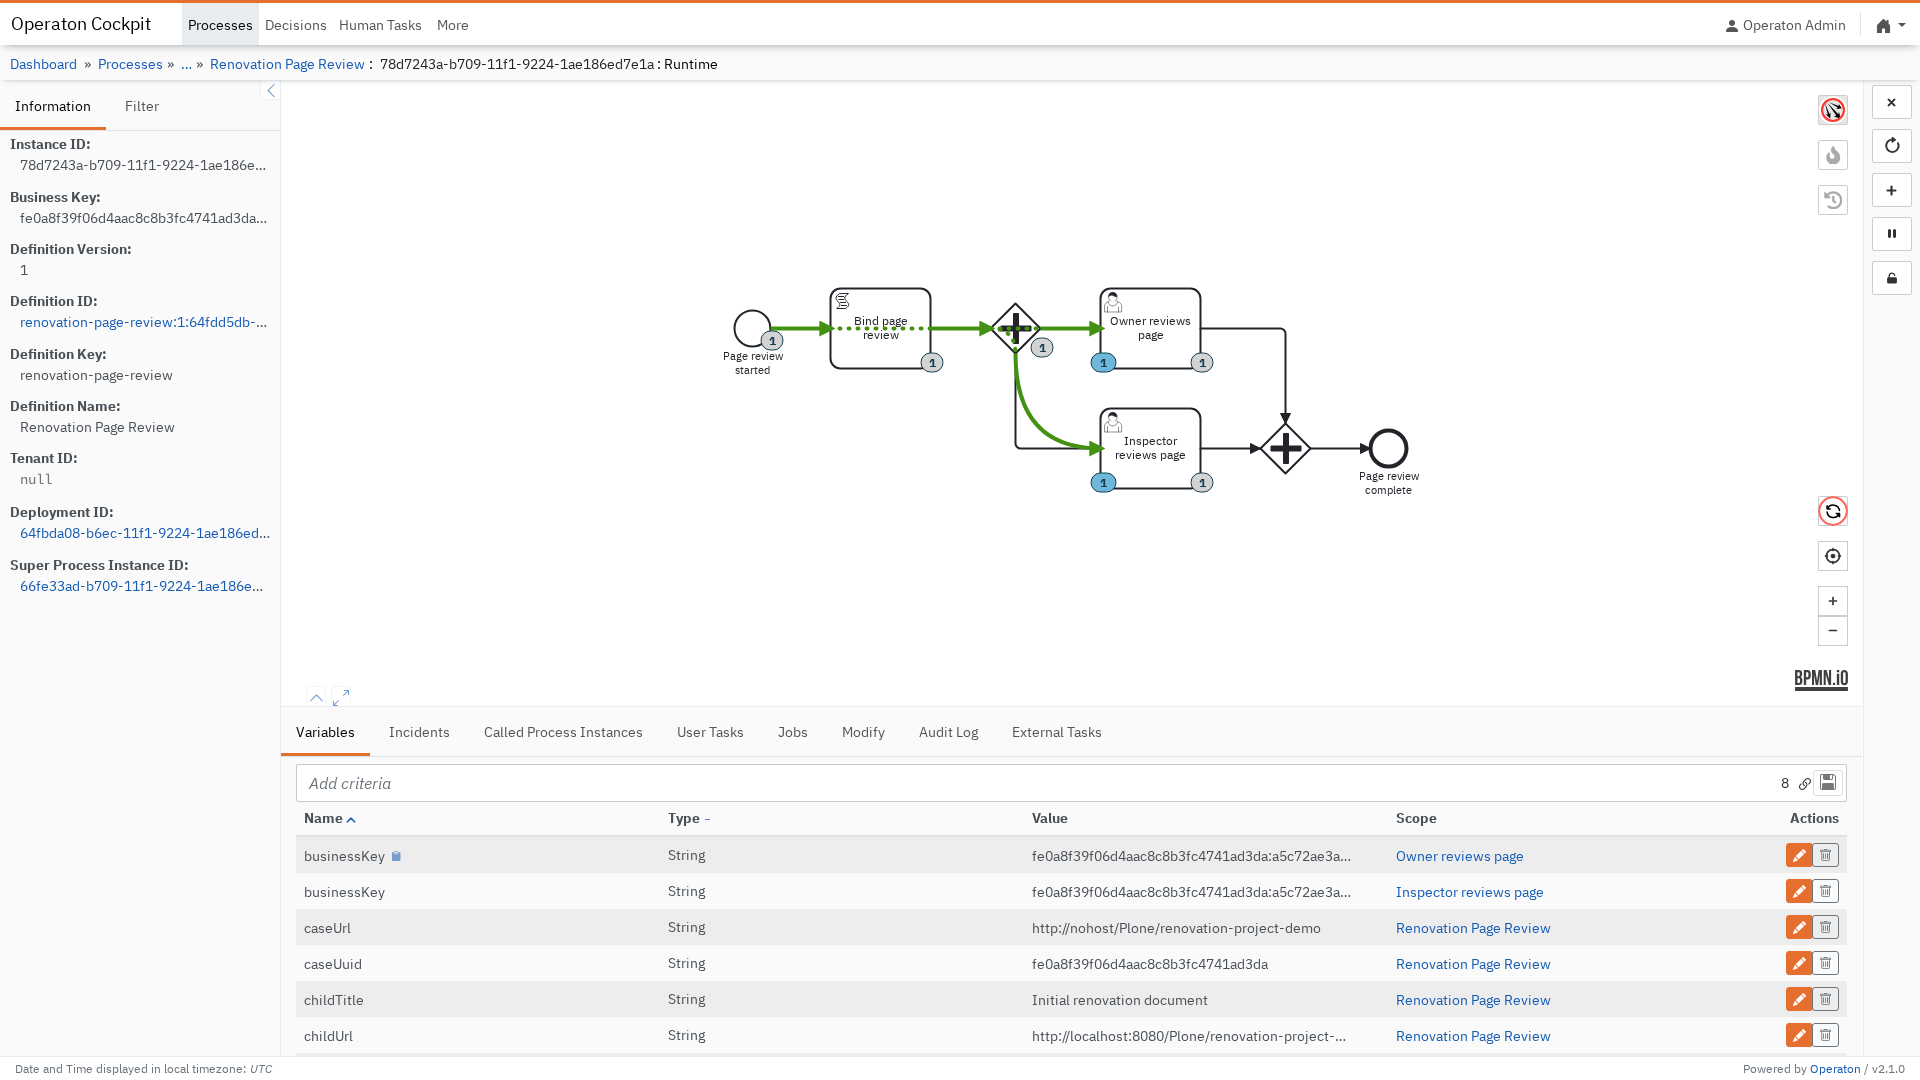
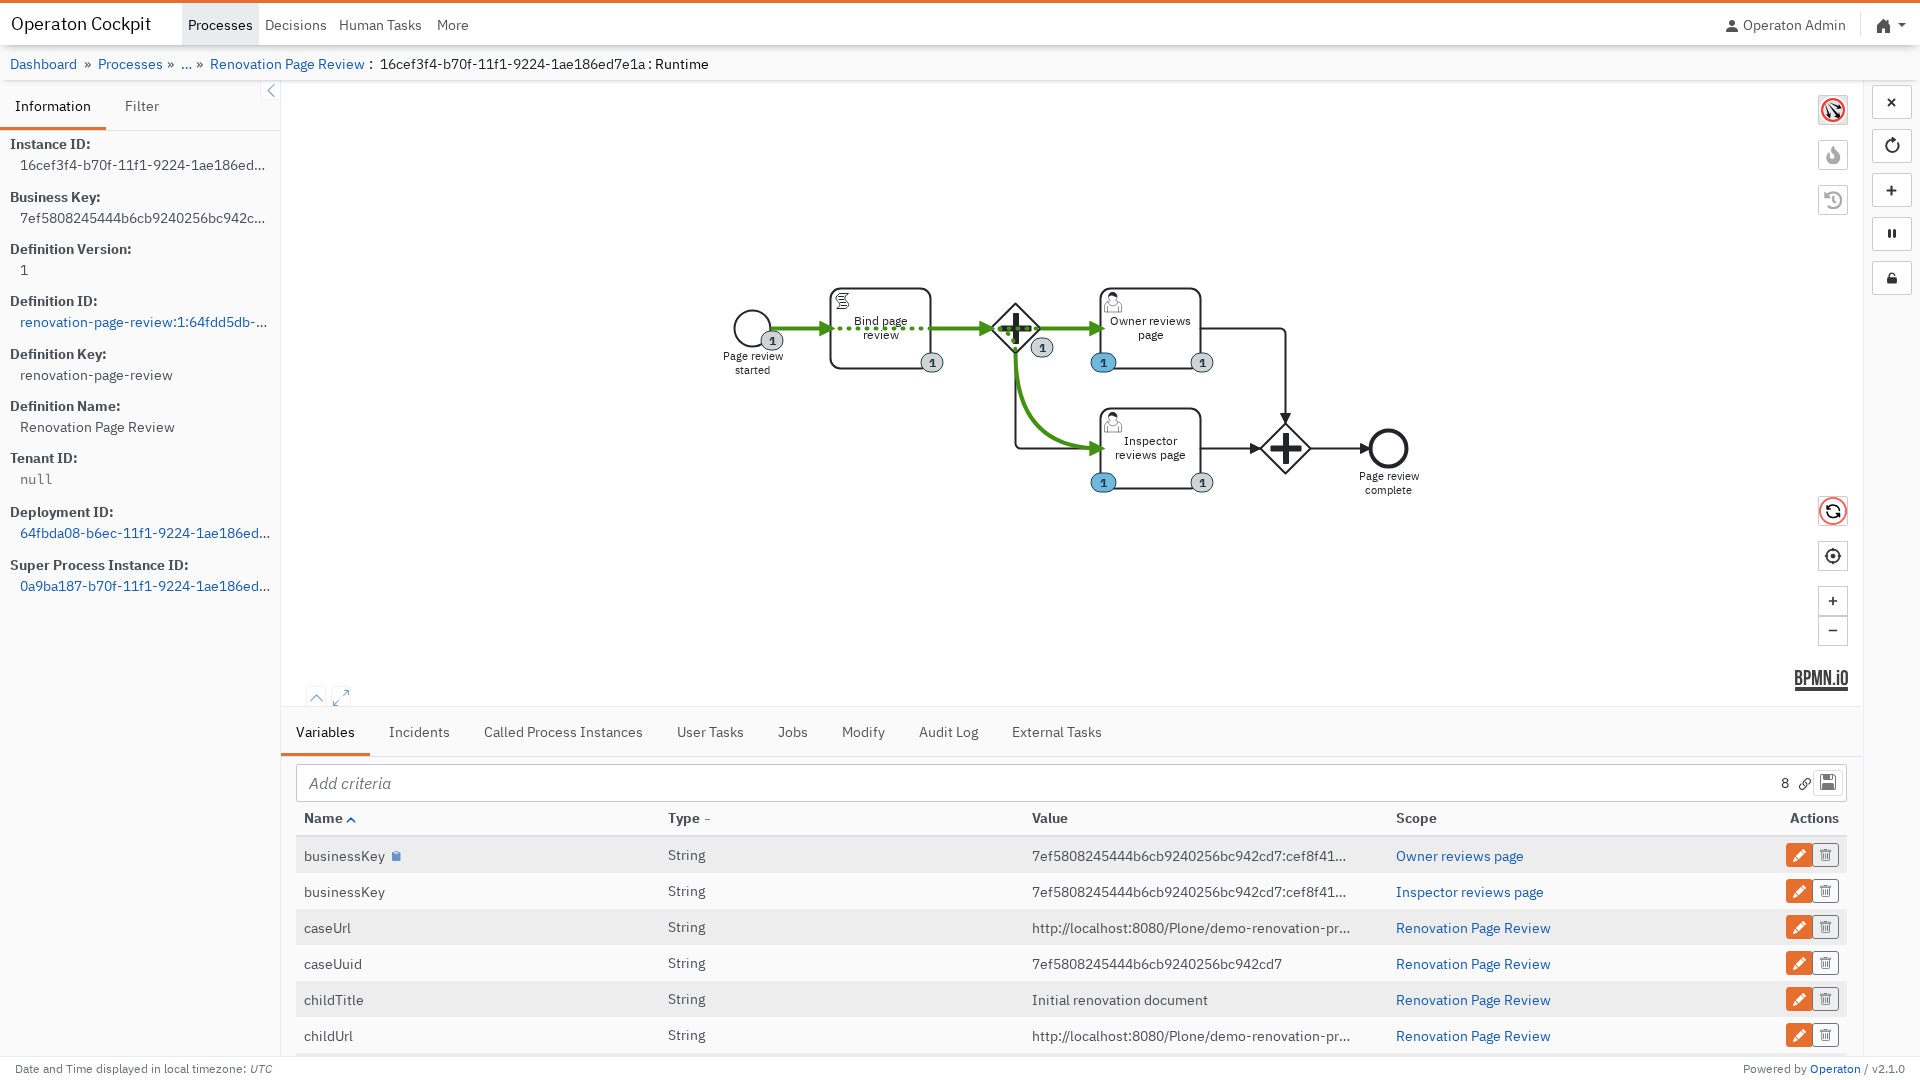
chore: Fix lint errors

diff --git a/scripts/e2e_renovation_project.py b/scripts/e2e_renovation_project.py
@@ -178,10 +178,11 @@ def compose_recording(cockpit_video, clips, output, timing_path=None):
             f"{PIP_BORDER}:{PIP_BORDER}:color={PIP_BORDER_COLOR}[{output_label}]"
         )
 
-    # Keep the Plone page visible while the observer enters the process view.
+    # Keep Plone visible from the beginning, including the opening navigation
+    # and the contractor adding the renovation document.
     initial_start, initial_end = gaps[0]
     if initial_end - initial_start > 0.05:
-        freeze = max(VIDEO_TRIM, durations[0] - 0.04)
+        freeze = max(0, durations[0] - 0.04)
         filters.append(
             f"[1:v]trim=start={freeze:.3f}:end={freeze + 0.04:.3f},"
             f"setpts=PTS-STARTPTS,tpad=stop_duration={initial_end:.3f}:"
@@ -189,15 +190,13 @@ def compose_recording(cockpit_video, clips, output, timing_path=None):
         )
         cockpit_slice("initial_cockpit_raw", 0, initial_end)
         pad("initial_cockpit_raw", "initial_cockpit", PIP_SCALE)
-        filters.append(
-            "[initial_plone][initial_cockpit]overlay=W-w-24:H-h-24[initial]"
-        )
+        filters.append("[initial_plone][initial_cockpit]overlay=W-w-24:H-h-24[initial]")
         segment_labels.append("initial")
 
     for index, clip in enumerate(clips):
         input_index = index + 1
         duration = durations[index]
-        body_start = VIDEO_TRIM
+        body_start = 0
         if duration - body_start > 0.05:
             filters.append(
                 f"[{input_index}:v]trim=start={body_start:.3f},"
@@ -218,16 +217,20 @@ def compose_recording(cockpit_video, clips, output, timing_path=None):
         gap_start, gap_end = gaps[index + 1]
         gap_duration = gap_end - gap_start
         if gap_duration > 0.05:
-            freeze = max(body_start, duration - 0.04)
+            freeze = max(0, duration - 0.04)
             filters.append(
                 f"[{input_index}:v]trim=start={freeze:.3f}:end={freeze + 0.04:.3f},"
                 f"setpts=PTS-STARTPTS,tpad=stop_duration={gap_duration:.3f}:"
                 f"stop_mode=clone,fps=25[gap{index}_plone]"
             )
             cockpit_slice(f"gap{index}_cockpit_raw", gap_start, gap_end)
-            pad(f"gap{index}_plone", f"gap{index}_plone_inset", PIP_SCALE * 2)
+            # The first three turns submit Plone forms and produce a new
+            # engine state; keep the final case-manager transition at normal
+            # inset size because it does not submit a Camunda form.
+            pip_scale = PIP_SCALE * 2 if index < len(clips) - 1 else PIP_SCALE
+            pad(f"gap{index}_cockpit_raw", f"gap{index}_cockpit_inset", pip_scale)
             filters.append(
-                f"[gap{index}_cockpit_raw][gap{index}_plone_inset]"
+                f"[gap{index}_plone][gap{index}_cockpit_inset]"
                 f"overlay=W-w-24:H-h-24[gap{index}]"
             )
             segment_labels.append(f"gap{index}")
@@ -246,7 +249,8 @@ def compose_recording(cockpit_video, clips, output, timing_path=None):
         *inputs,
         "-filter_complex",
         filter_complex,
-        "-map", "[out]",
+        "-map",
+        "[out]",
         "-c:v",
         "libvpx-vp9",
         "-deadline",
@@ -305,6 +309,7 @@ def workflow(page, action):
 
 
 def main():
+    global CASE
     with sync_playwright() as playwright:
         browser = playwright.chromium.launch(
             headless=True,
@@ -314,7 +319,12 @@ def main():
             extra_http_headers={"Authorization": basic_auth("manager", "manager")}
         )
         manager_page = manager.new_page()
-        manager_page.goto(CASE, wait_until="load")
+        manager_page.goto(BASE, wait_until="load")
+        manager_page.request.delete(
+            CASE,
+            headers={"Accept": "application/json"},
+        )
+        case_url = None
         document_url = None
 
         cockpit_setup = browser.new_context()
@@ -351,6 +361,10 @@ def main():
                 cockpit_page, ".toggle-sequence-flow-button", "sequence-flow"
             )
 
+        # Keep the empty definition view live from the first recorded Plone
+        # action so the new case appears without a manual refresh.
+        configure_cockpit()
+
         def record_turn(username, password, action, turn, title, subtitle):
             context = browser.new_context(
                 viewport=VIDEO_SIZE,
@@ -375,10 +389,24 @@ def main():
                 }
             )
 
+        def manager_creates_case(page, turn, title, subtitle):
+            nonlocal case_url
+            page.goto(BASE, wait_until="load")
+            show_actor_slide(page, f"Renovation case · {turn} / 5", title, subtitle)
+            human_click(page, page.get_by_role("link", name="Add new…"))
+            human_click(
+                page,
+                page.get_by_role("link", name="Renovation Project", exact=True),
+            )
+            page.locator("#form-widgets-IBasic-title").fill("Demo renovation project")
+            human_click(page, page.get_by_role("button", name="Save"))
+            page.wait_for_load_state("load")
+            case_url = page.url.removesuffix("/view")
+
         def contractor_adds_document(page, turn, title, subtitle):
             nonlocal document_url
             page.goto(CASE, wait_until="load")
-            show_actor_slide(page, f"Renovation case · {turn} / 4", title, subtitle)
+            show_actor_slide(page, f"Renovation case · {turn} / 5", title, subtitle)
             add_document(page)
             document_url = page.url.removesuffix("/view")
             page.screenshot(
@@ -387,10 +415,50 @@ def main():
             )
 
         record_turn(
+            "manager",
+            "manager",
+            manager_creates_case,
+            1,
+            "Case manager",
+            "Creating the demo renovation project",
+        )
+        assert case_url
+        CASE = case_url
+        sharing = manager_page.request.post(
+            f"{CASE}/@sharing",
+            headers={
+                "Accept": "application/json",
+                "Content-Type": "application/json",
+            },
+            data=json.dumps(
+                {
+                    "entries": [
+                        {
+                            "id": "Renovation Contractors",
+                            "roles": {"Contributor": True, "Editor": True},
+                            "type": "group",
+                        },
+                        {
+                            "id": "Renovation Owners",
+                            "roles": {"Reviewer": True},
+                            "type": "group",
+                        },
+                        {
+                            "id": "Renovation Inspectors",
+                            "roles": {"Reviewer": True},
+                            "type": "group",
+                        },
+                    ]
+                }
+            ),
+        )
+        assert sharing.status in (200, 204), sharing.text()
+
+        record_turn(
             "contractor",
             "contractor",
             contractor_adds_document,
-            1,
+            2,
             "Contractor",
             "Adding a document to the renovation case",
         )
@@ -436,12 +504,12 @@ def main():
             )
             task = wait_for_task(page, task_name)
             human_click(page, task)
-            show_actor_slide(page, f"Renovation case · {turn} / 4", title, subtitle)
+            show_actor_slide(page, f"Renovation case · {turn} / 5", title, subtitle)
             human_click(page, page.get_by_label("Approved"))
             human_click(page, page.get_by_role("button", name="Submit review"))
             page.wait_for_load_state("load")
 
-        record_turn("owner", "owner", approves, 2, "Owner", "Reviewing the added page")
+        record_turn("owner", "owner", approves, 3, "Owner", "Reviewing the added page")
         cockpit_page.reload(wait_until="load")
         cockpit_page.wait_for_timeout(1200)
         configure_cockpit()
@@ -449,15 +517,30 @@ def main():
             "inspector",
             "inspector",
             approves,
-            3,
+            4,
             "Inspector",
             "Reviewing the added page for compliance",
         )
+        cockpit_page.goto(f"{COCKPIT}/#/processes", wait_until="load")
+        cockpit_page.get_by_role("link", name="renovation-case").click()
+        cockpit_page.wait_for_timeout(1200)
+        main_instance = cockpit_page.locator('a[href*="/process-instance/"]').last
+        main_instance.wait_for(state="visible", timeout=30000)
+        human_click(cockpit_page, main_instance)
+        configure_cockpit()
+        cockpit_page.wait_for_timeout(1800)
 
         def manager_closes(page, turn, title, subtitle):
             page.goto(CASE, wait_until="load")
-            show_actor_slide(page, f"Renovation case · {turn} / 4", title, subtitle)
-            workflow(page, "close-case")
+            show_actor_slide(page, f"Renovation case · {turn} / 5", title, subtitle)
+            state = page.get_by_role("link", name="State: Open")
+            human_click(page, state)
+            close_case = page.locator(
+                '#plone-contentmenu-workflow a[href*="workflow_action=close-case"]'
+            )
+            close_case.wait_for(state="visible", timeout=10000)
+            human_click(page, close_case.last)
+            page.wait_for_load_state("load")
             page.reload(wait_until="load")
             assert "Closed" in page.locator("body").inner_text()
             page.screenshot(
@@ -468,7 +551,7 @@ def main():
             "manager",
             "manager",
             manager_closes,
-            4,
+            5,
             "Case manager",
             "Closing the completed renovation case",
         )
